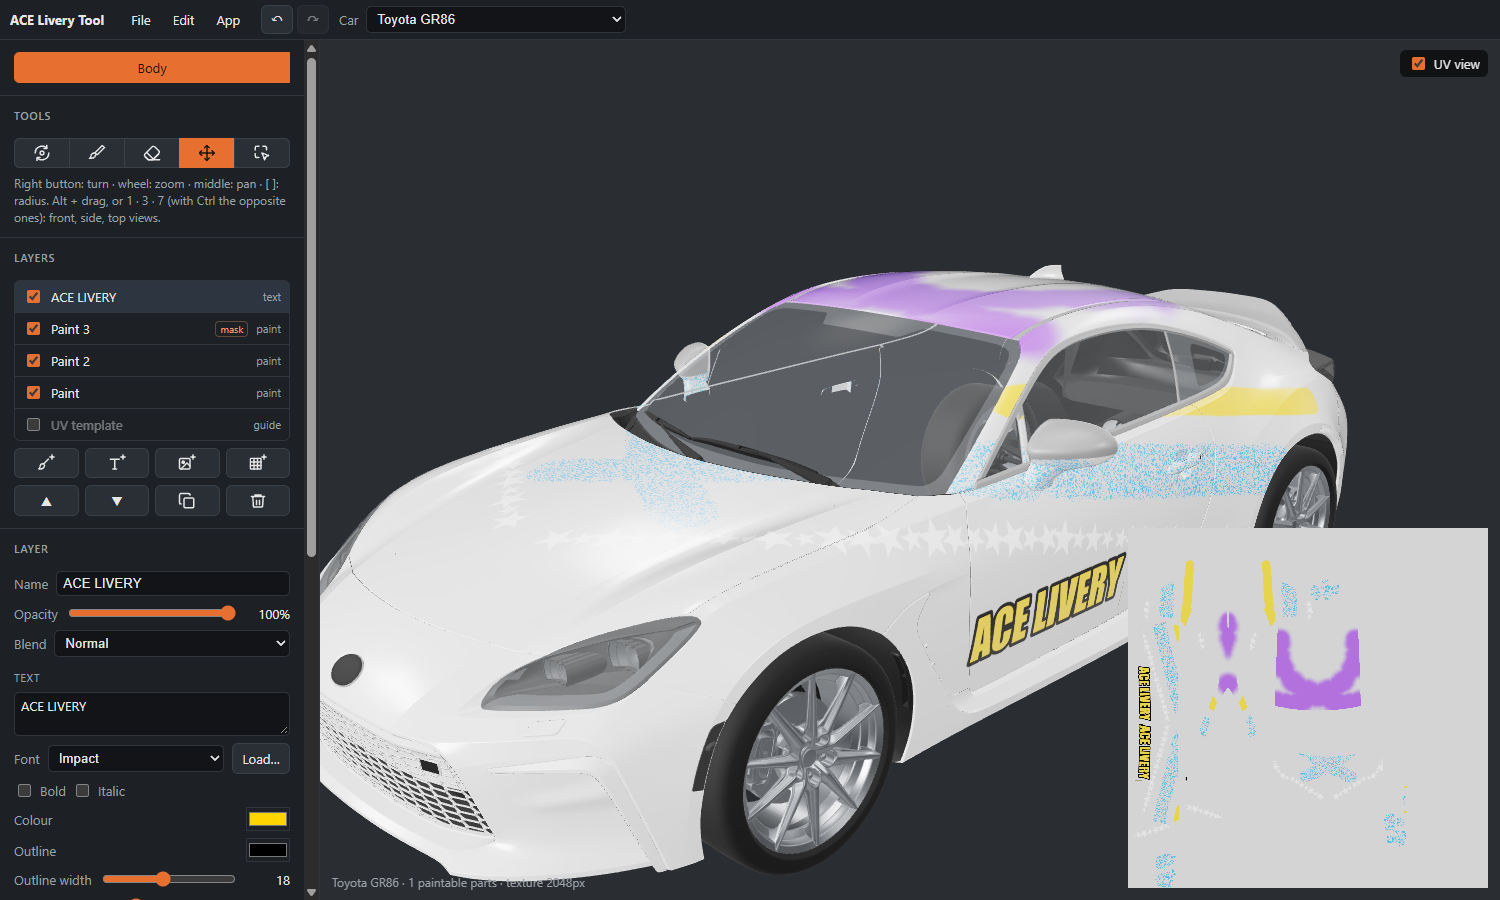
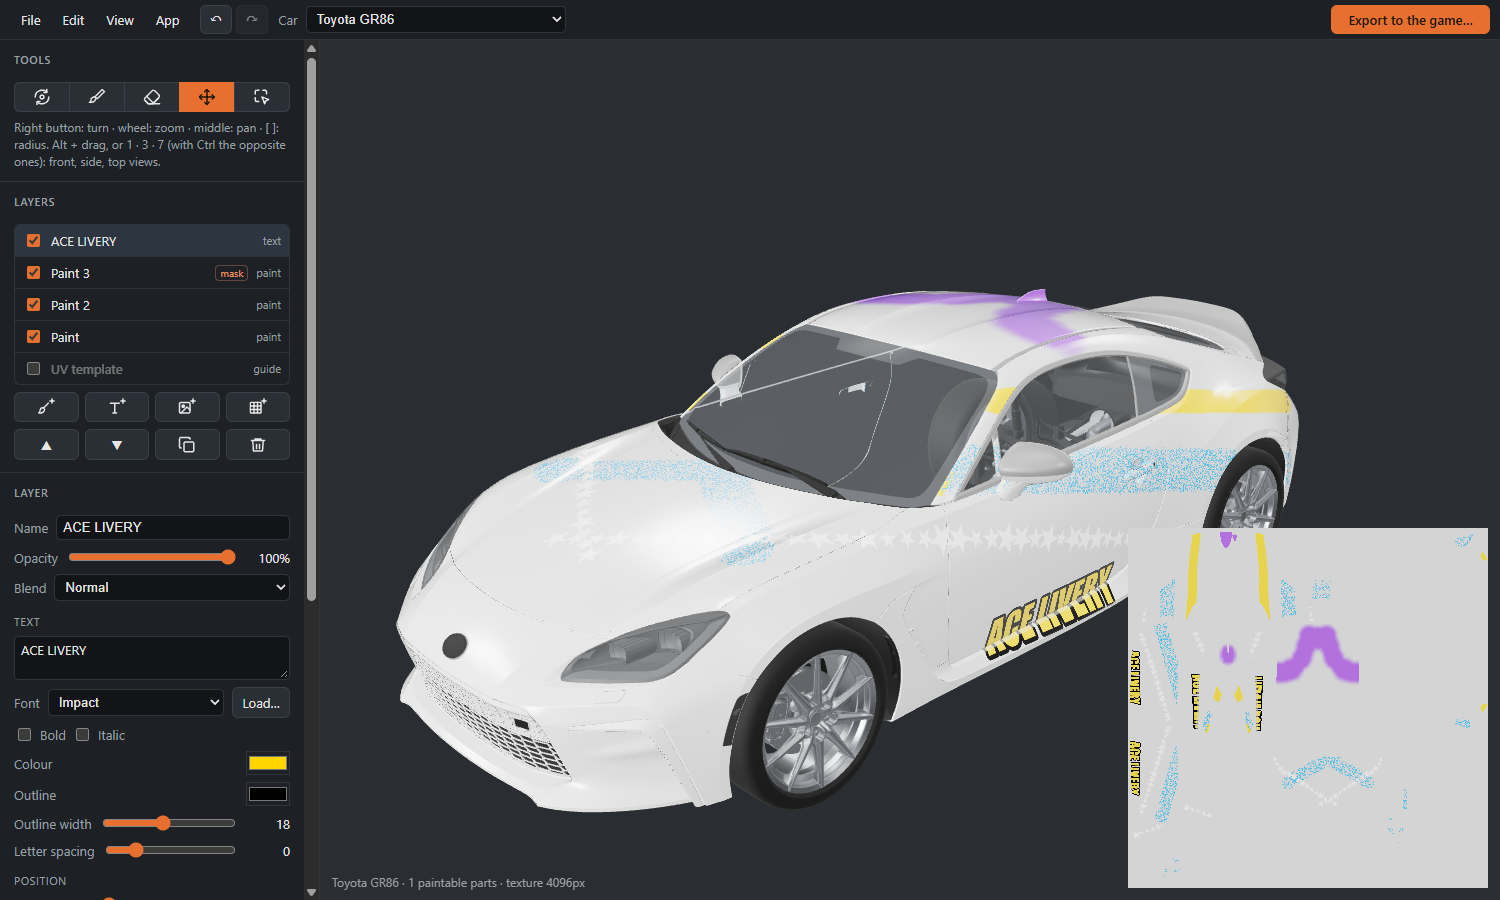
Docs for 0.3.0

diff --git a/CHANGELOG.it.md b/CHANGELOG.it.md
@@ -1,5 +1,25 @@
 # Novità
 
+## [0.3.0] - 2026-10-17
+
+Pennelli pronti, tavolette grafiche e uno schermo più ordinato.
+
+### Novità
+- Menu **Pennello** con dieci pennelli pronti, ognuno con un'anteprima: tondo duro, tondo morbido, spruzzo, gesso,
+  setole, pennarello, pennino calligrafico, schizzi, puntinato, stelle. Impostano la punta e le sue variazioni; colore,
+  raggio e opacità restano come sono. L'ultimo scelto viene ricordato.
+- Nuova punta **Gesso** e i timbri **Setole**, **Pennarello** e **Pennino**.
+- Tavolette grafiche: il raggio segue la pressione della penna (**Il raggio segue la pressione della penna**,
+  **Raggio minimo**). Queste impostazioni compaiono dopo il primo tocco della penna; il mouse dipinge sempre al raggio
+  pieno.
+- Menu **Vista**: **Vista UV** (tasto U) e le viste **Davanti**, **Lato** e **Sopra**.
+
+### Modifiche
+- **Carrozzeria** / **Vetri** ed **Esporta nel gioco…** ora sono nella barra in alto.
+- Si dipinge molto più veloce sui portatili con due schede grafiche: l'app ora usa quella dedicata.
+- I pennelli fitti (spruzzo, puntinato, stelle) dipingono veloci come gli altri.
+- Icona nuova.
+
 ## [0.2.0] - 2026-10-16
 
 Dipingere una parte dell'auto alla volta: il cofano, una portiera, un paraurti, con un clic.

diff --git a/CHANGELOG.md b/CHANGELOG.md
@@ -1,5 +1,24 @@
 # Changelog
 
+## [0.3.0] - 2026-10-17
+
+Ready-made brushes, drawing tablets, and a tidier screen.
+
+### New
+- **Brush** menu with ten ready-made brushes, each with a preview: hard round, soft round, spray, chalk, bristles,
+  marker, calligraphy nib, spatter, stipple, stars. They set the tip and its variations; colour, radius and opacity
+  stay as they are. The last one chosen is remembered.
+- New **Chalk** tip, and the **Bristles**, **Marker** and **Nib** stamps.
+- Drawing tablets: the radius follows the pen's pressure (**Radius follows pen pressure**, **Minimum radius**). These
+  settings appear after the first touch of the pen; the mouse always paints at the full radius.
+- **View** menu: **UV view** (U key) and the **Front**, **Side** and **Top** views.
+
+### Changed
+- **Body** / **Windows** and **Export to the game…** are now in the top bar.
+- Painting is much faster on laptops with two graphics cards: the app now uses the dedicated one.
+- Dense brushes (spray, stipple, stars) paint as fast as the others.
+- New icon.
+
 ## [0.2.0] - 2026-10-16
 
 Paint one part of the car at a time: the hood, a door, a bumper, with a click.

diff --git a/README.md b/README.md
@@ -12,7 +12,8 @@ The full guide is in the **[wiki](https://github.com/agastal/AceLiveryTool-Relea
 - Every car of the game (71), with its UV layout as a guide.
 - Layers with masks, blend modes and their own roughness, metallic and clear coat.
 - Parts: a click limits a layer to the hood, a door, a bumper (and the matching part on the other side).
-- Brushes that work in 3D (no seams between panels): round, spray, stamps; left/right symmetry.
+- Brushes that work in 3D (no seams between panels): ten ready-made ones (round, spray, chalk, bristles, marker,
+  nib, stamps…), left/right symmetry, pen pressure on a drawing tablet.
 - Images and text projected on the car, mirrored to the other side if you want.
 - Undo/redo, project files (`.acelivery`); front, side and top views as in Blender (1, 3, 7 or Alt + drag).
 - In Italian, English, French, German and Spanish.

diff --git a/README.it.md b/README.it.md
@@ -13,7 +13,8 @@ La guida completa è nella **[wiki](https://github.com/agastal/AceLiveryTool-Rel
 - Livelli con maschere, modi di fusione e rugosità, metallo e clear coat propri.
 - Parti: un clic limita un livello al cofano, a una portiera, a un paraurti (e alla parte corrispondente
   dall'altro lato).
-- Pennelli che lavorano in 3D (nessuna cucitura tra i pannelli): tondo, spray, timbri; simmetria sinistra/destra.
+- Pennelli che lavorano in 3D (nessuna cucitura tra i pannelli): dieci pronti (tondo, spruzzo, gesso, setole,
+  pennarello, pennino, timbri…), simmetria sinistra/destra, pressione della penna su una tavoletta grafica.
 - Immagini e testi proiettati sull'auto, anche specchiati sull'altro lato.
 - Annulla/ripeti, file di progetto (`.acelivery`); viste di fronte, lato e sopra come in Blender (1, 3, 7 o
   Alt + trascina).
